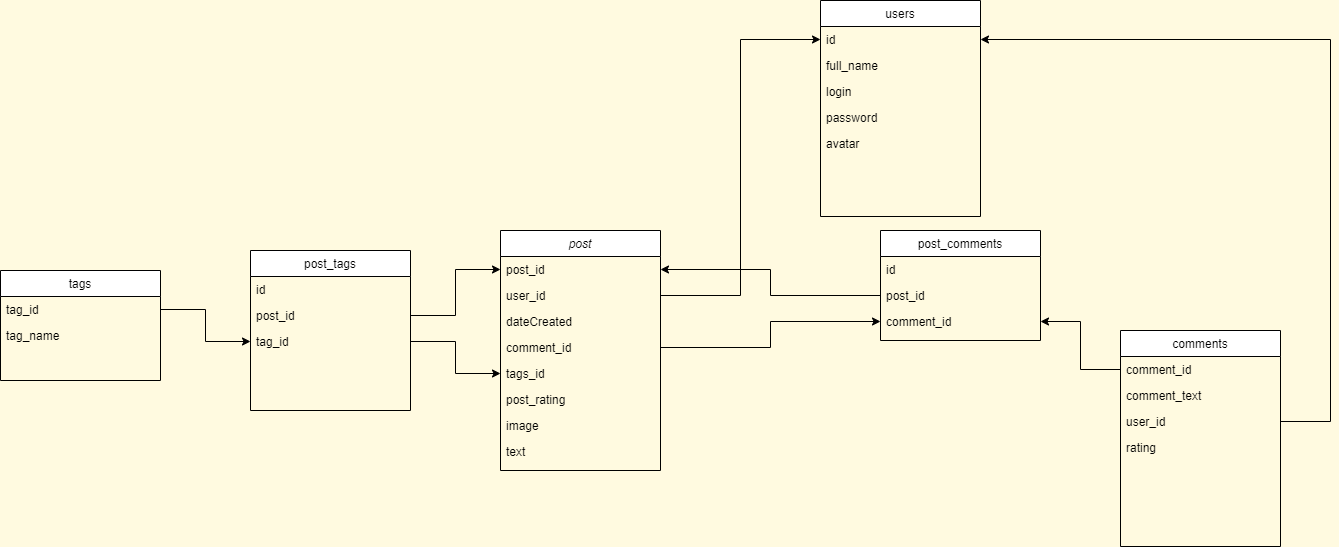
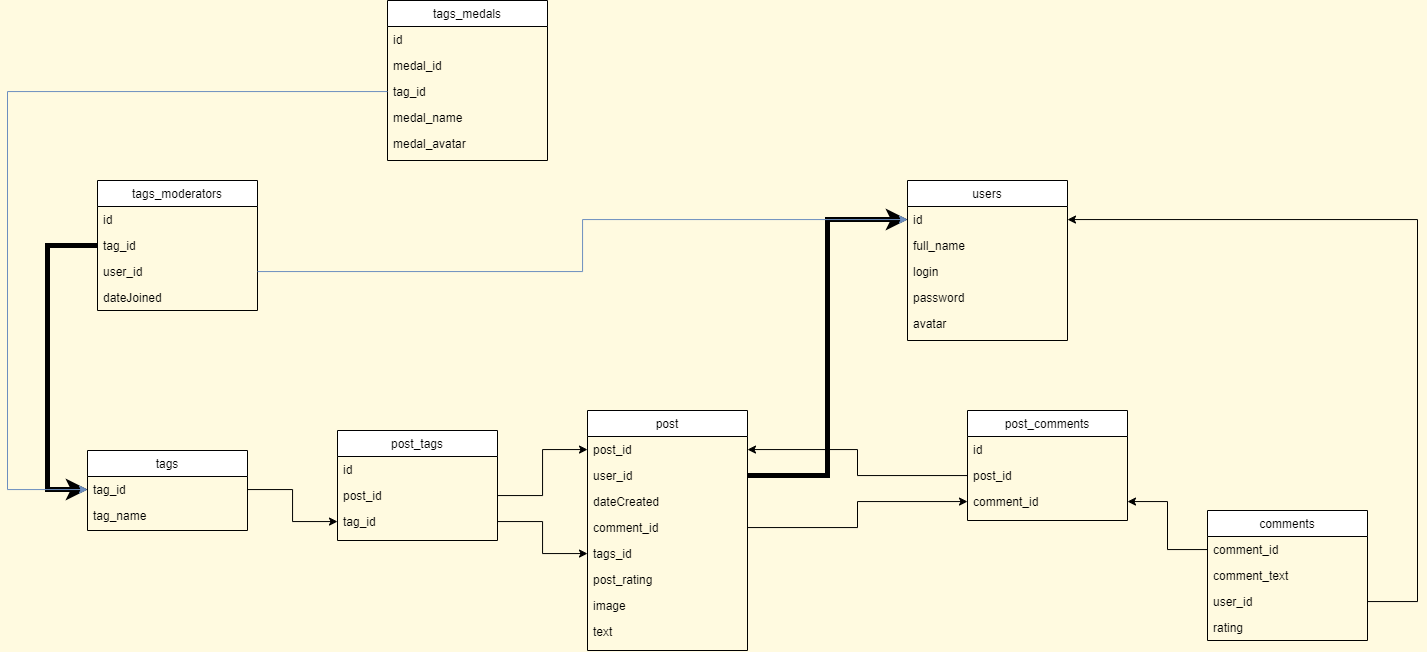
New features: moderators and medals in tag. Works absolutely fine

diff --git a/css/tag_page.css b/css/tag_page.css
@@ -1,0 +1,83 @@
+.tag-information {
+    background-color: #161b22;
+    border-radius: 20px;
+    margin-top: 30px;
+    padding: 20px;
+}
+
+.tag-information-top {
+    display: flex;
+}
+
+.tag-information-image {
+    height: 100px;
+    border-radius: 20px;
+}
+
+.tag-information-nlf {
+    margin-left: 10px;
+}
+
+.right-block-moderators {
+    background-color: #161b22;
+    padding: 20px 20px 20px 20px;
+    /* text-align: center; */
+    border-radius: 20px;
+    margin-top: 20px;
+  } 
+
+  .right-block-moderators-name {
+    margin-bottom: 5px;
+    }
+
+  .right-block-moderators-list {
+      text-align: center;
+  }
+
+  .right-block-moderators-each {
+      width: 100%;
+      height: 50px;
+      margin-right: 10px;
+      display: flex;
+      vertical-align: middle;
+    }
+
+    .right-block-moderators-each-pfp {
+        width: 40px;
+        height: 40px;
+        border-radius: 20%;
+        cursor: pointer;
+        object-fit: cover;
+        margin-right: 5px;
+        
+    }
+    .right-block-moderators-each-name {
+        font-size: 14px;
+        text-align: left;
+    }
+
+    .right-block-moderators-each-name-date {
+        font-size: 11px;
+      }
+  .right-block-avaiable-medals {
+    background-color: #161b22;
+    padding: 20px 20px 20px 20px;
+    /* text-align: center; */
+    border-radius: 20px;
+    margin-top: 20px;
+  } 
+  
+  .right-block-avaiable-medals-list {
+    text-align: center;
+    display: flex;
+}
+
+.right-block-avaiable-medals-each {
+    width: 50px;
+    margin-right: 10px;
+}
+
+.right-block-avaiable-medals-each-name {
+    font-size: 14px;
+}
+

diff --git a/css/main.css b/css/main.css
@@ -11,6 +11,7 @@ body {
 
 p {
   margin: 0 0 0 0;
+  padding: 0 0 0 0;
 }
 
 a { 

diff --git a/tag_page.php b/tag_page.php
@@ -5,7 +5,8 @@
     <meta name="viewport" content="width=device-width, initial-scale=1.0">
     <link rel="stylesheet" href="css/main.css">
     <link rel="stylesheet" href="css/user_profile.css">
-    <title>User Page</title>
+    <link rel="stylesheet" href="css/tag_page.css">
+    <title>Tag Page</title>
 </head>
 <body>
     <?php
@@ -25,7 +26,9 @@
 <?php 
     include("db_conn1.php");
     $id = $_GET['tag_id'];
-
+// 
+// 
+// 
     $sql_select4 =  "SELECT distinct tag_id, tag_name
                     FROM tags
                     WHERE tag_id ='$id'
@@ -33,8 +36,47 @@
 
     $result4 = mysqli_query($conn, $sql_select4);
     $row4 = mysqli_fetch_array($result4, MYSQLI_ASSOC);
+// 
+// 
+// 
+    $sql_select99 =    "SELECT distinct u.id, u.full_name, u.avatar, t.dateJoined
+                        From users u
+                        INNER JOIN tags_moderators t
+                        ON u.id = t.user_id
+                        WHERE tag_id ='$id'
+                        ";
+
+    $result99 = mysqli_query($conn, $sql_select99);
+
+    if (!$result99) {
+        die('Invalid query: ' . mysqli_error($conn));
+    }
+
+    $row99 = mysqli_fetch_all($result99, MYSQLI_ASSOC);
 
 
+    // 
+    // 
+    // 
+
+    $sql_select98 =    "SELECT distinct u.medal_id, u.medal_name, u.medal_avatar
+                        From tags_medals u
+                        INNER JOIN tags t
+                        ON u.tag_id = t.tag_id
+                        WHERE u.tag_id ='$id'
+                        ";
+
+    $result98 = mysqli_query($conn, $sql_select98);
+
+    if (!$result98) {
+        die('Invalid query: ' . mysqli_error($conn));
+    }
+
+    $row98 = mysqli_fetch_all($result98, MYSQLI_ASSOC);
+
+// 
+// 
+// 
     $sql_select =  "SELECT distinct p.post_id, p.user_id, p.text, p.image, p.dateCreated, p.comment_id
                     FROM post p
                     INNER JOIN post_tags t
@@ -68,7 +110,44 @@
     <div class="intro">
 
 <div></div>
-<div></div>
+
+<div class="tag-information">
+
+    <div class="tag-information-top">
+
+        <div>
+            <img class="tag-information-image" src="uploads/tenor.gif" alt="">
+        </div>
+
+<!--  -->
+<!-- nlf means name, link and followers -->
+<!--  -->
+
+        <div class="tag-information-nlf"> 
+
+            <div class="tag-information-name">
+                <?=$row4['tag_name']?>
+            </div>
+
+            <p class="user-info-link">
+                u/userlink
+            </p>
+
+            <div class="tag-information-followers">
+
+            </div>
+
+        </div>
+
+    </div>
+
+    <div class="tag-information-text">
+
+    
+    </div>
+
+</div>
+
 <div class="main1">
     <div class="posts">
         <div class="post">
@@ -364,7 +443,85 @@
                 <p class="user-info-link">
                     u/userlink
                 </p>
-        </div>  
+        </div> 
+        <div class="right-block-moderators">
+
+            <p class="right-block-moderators-name">
+                Moderators:
+            </p>
+
+            <div class="right-block-moderators-list">
+                <?php foreach($row99 as $row99): ?>
+                    <div class="right-block-moderators-each">
+
+
+                            <img class="right-block-moderators-each-pfp"
+                                src="
+                                    <?=$row99['avatar']?>
+                                ">
+
+                        <div class="right-block-moderators-each-name">
+                            <p>
+                                <?=$row99['full_name']?>
+                            </p>
+                            <p class="right-block-moderators-each-name-date">
+                               From: <?=$row99['dateJoined']?>
+                            </p>
+
+                        </div>
+                    <!-- <script src="https://ajax.googleapis.com/ajax/libs/jquery/2.1.1/jquery.min.js">
+                        $(document).ready(function() {
+                            $(".right-block-moderators-each-name").each(function() {
+                                var targetHeight = $(this).clone().html("&nbsp;").insertAfter($(this));
+
+                                while ($(this).height() > targetHeight.height()) {
+                                    $(this).css("font-size", parseInt($(this).css("font-size")) - 1);
+                                }
+
+                                targetHeight.remove();
+                            });
+                        });
+                    </script> -->
+
+                       
+
+                   
+                    </div>
+                    
+                <?php endforeach; ?>
+                
+            </div>
+        </div>
+
+        <div class="right-block-avaiable-medals">
+            <p>
+                Medals you can get:
+            </p>
+
+            <div class="right-block-avaiable-medals-list">
+                <?php foreach($row98 as $row98): ?>
+                    <div class="right-block-avaiable-medals-each">
+
+                        <div>
+
+                            <img class="user-pfp"
+                                src="
+                                    <?=$row98['medal_avatar']?>
+                                ">
+                        </div>
+
+                        <div class="right-block-avaiable-medals-each-name">
+                            <?=$row98['medal_name']?>
+                        </div>
+
+                   
+                    </div>
+                    
+                <?php endforeach; ?>
+                
+            </div> 
+
+        </div>
     </div>
 
 
